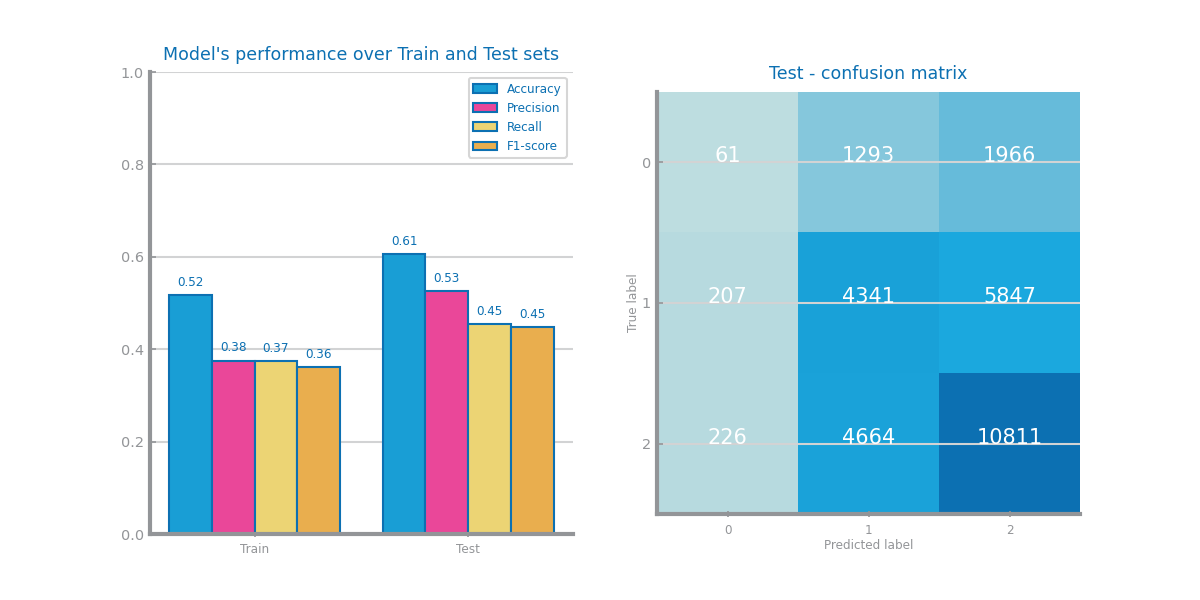
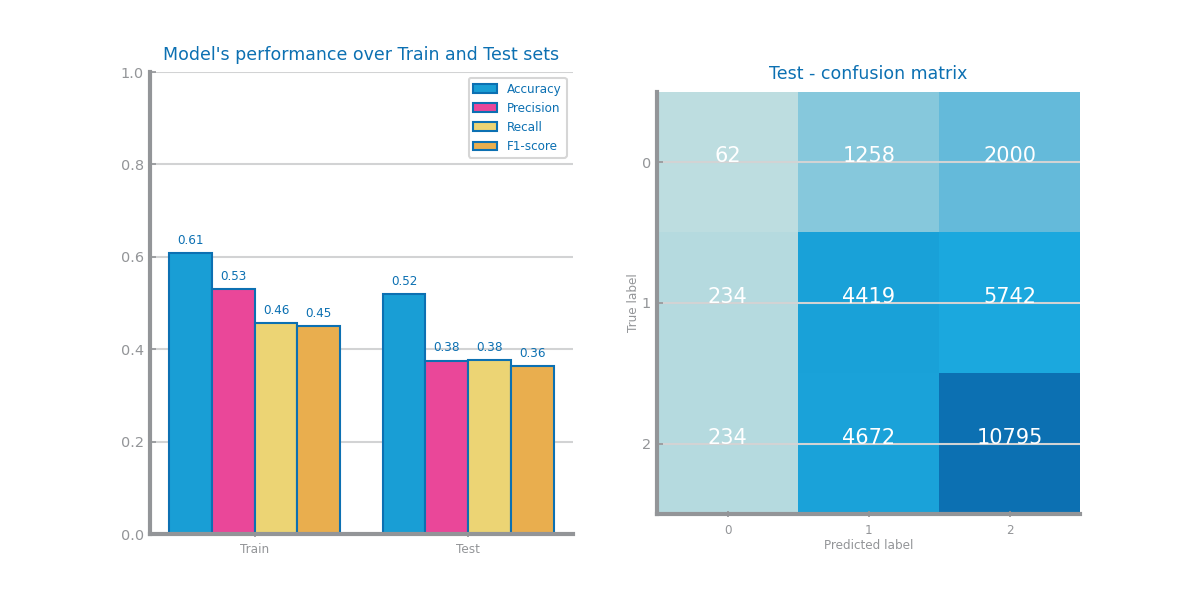
updated images lab 3 diabetes

diff --git a/diabetesDataset/lab3/NBParameterization.py b/diabetesDataset/lab3/NBParameterization.py
@@ -6,9 +6,17 @@ from sklearn.naive_bayes import GaussianNB
 from ds_charts import plot_evaluation_results, bar_chart
 from sklearn.model_selection import train_test_split
 
-data = read_csv('minMaxedData.csv')
+data = read_csv('zScoredData.csv')
+data = data.drop(columns=['Unnamed: 0.1','Unnamed: 0', 'Unnamed: 0.2'])
 
-data = data.drop(columns=['Unnamed: 0.1','Unnamed: 0'])
+# [min(data[x]) for x in data.columns ]
+for x in data:
+    if any(data[x] <0 ):
+        data[x] = data[x] + 3
+
+
+
+#%%
 target = 'readmitted'
 
 y = data.pop(target).values
@@ -38,15 +46,21 @@ for clf in estimators:
     estimators[clf].fit(trnX, trnY)
     prdY = estimators[clf].predict(tstX)
     yvalues.append(accuracy_score(tstY, prdY))
-    yvalues_2.append(recall_score(tstY, prdY, average='macro'))
-    yvalues_3.append(f1_score(tstY, prdY, average='macro'))
-    yvalues_4.append(precision_score(tstY, prdY, average='macro'))
+    yvalues_2.append(recall_score(tstY, prdY, average='weighted'))
+    yvalues_3.append(f1_score(tstY, prdY, average='weighted'))
+    yvalues_4.append(precision_score(tstY, prdY, average='weighted'))
 
-figure()
-# bar_chart(xvalues, yvalues, title='Comparison of Naive Bayes Models', ylabel='accuracy', percentage=True)
-# bar_chart(xvalues, yvalues_2, title='Comparison of Naive Bayes Models', ylabel='accuracy', percentage=True)
-# bar_chart(xvalues, yvalues_3, title='Comparison of Naive Bayes Models', ylabel='accuracy', percentage=True)
-bar_chart(xvalues, yvalues_4, title='Comparison of Naive Bayes Models', ylabel='accuracy', percentage=True)
+
+
+fig = figure(figsize=(10, 7))
+fig.add_subplot(2, 2, 1)
+bar_chart(xvalues, yvalues, title='Comparison of Naive Bayes Models', ylabel='accuracy', percentage=True)
+fig.add_subplot(2, 2, 2)
+bar_chart(xvalues, yvalues_2, title='Comparison of Naive Bayes Models', ylabel='recall', percentage=True)
+fig.add_subplot(2, 2, 3)
+bar_chart(xvalues, yvalues_3, title='Comparison of Naive Bayes Models', ylabel='f1_score', percentage=True)
+fig.add_subplot(2, 2, 4)
+bar_chart(xvalues, yvalues_4, title='Comparison of Naive Bayes Models', ylabel='precision', percentage=True)
 
 savefig('images/nb_study_precision.png')
 # show()

diff --git a/diabetesDataset/lab2/missing_values.py b/diabetesDataset/lab2/missing_values.py
@@ -290,7 +290,7 @@ import matplotlib.pyplot as plt
 import ds_charts as ds
 from sklearn.model_selection import train_test_split
 
-data = df_3
+data = df_2
 target = 'readmitted'
 
 y = data.pop(target).values
@@ -302,10 +302,10 @@ labels.sort()
 trnX, tstX, trnY, tstY = train_test_split(X, y, train_size=0.7, stratify=y)
 
 train = concat([DataFrame(trnX, columns=data.columns), DataFrame(trnY,columns=[target])], axis=1)
-train.to_csv('mv_replace_train.csv', index=False)
+train.to_csv('mv_drop_train.csv', index=False)
 
 test = concat([DataFrame(tstX, columns=data.columns), DataFrame(tstY,columns=[target])], axis=1)
-test.to_csv('mv_replace_test.csv', index=False)
+test.to_csv('mv_drop_test.csv', index=False)
 
 
 
@@ -314,13 +314,13 @@ from sklearn.naive_bayes import GaussianNB
 from numpy import ndarray
 from sklearn.metrics import confusion_matrix
 
-train: DataFrame = read_csv('mv_replace_train.csv')
+train: DataFrame = read_csv('mv_drop_train.csv')
 trnY: ndarray = train.pop(target).values
 trnX: ndarray = train.values
 labels = unique(trnY)
 labels.sort()
 
-test: DataFrame = read_csv('mv_replace_test.csv')
+test: DataFrame = read_csv('mv_drop_test.csv')
 tstY: ndarray = test.pop(target).values
 tstX: ndarray = test.values
 
@@ -343,7 +343,7 @@ import ds_charts
 from ds_charts import plot_evaluation_results
 
 plot_evaluation_results(labels, trnY, prd_trn, tstY, prd_tst)
-savefig('images/mv_replace_nb.png')
+savefig('images/mv_drop_nb.png')
 
 
 # %% KNN classification
@@ -362,6 +362,6 @@ prd_trn = clf.predict(trnX)
 prd_tst = clf.predict(tstX)
 
 ds.plot_evaluation_results(labels, trnY, prd_trn, tstY, prd_tst)
-savefig('images/mv_replace_knn.png')
+savefig('images/mv_drop_knn.png')
 
 # %%
